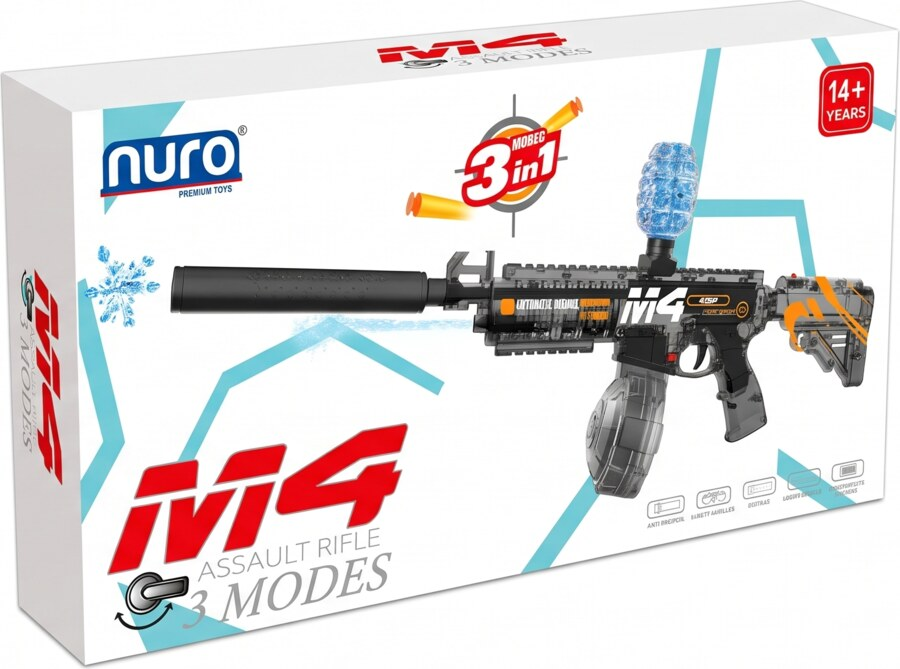
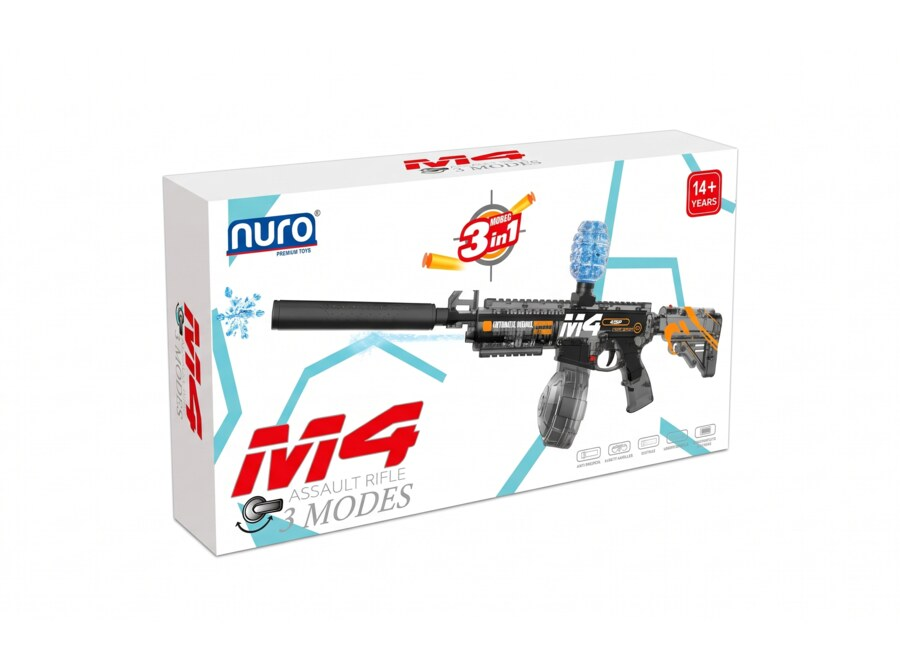
Pull the Gel Storm box shot back and close the cut-out gaps
The box now sits smaller in the frame with air around it, same printed box
art. The cut-out no longer keeps the white background inside the front sight
aperture and the trigger guard, with the light fringe around both feathered
out so the blaster sits cleanly on the dark stage.

diff --git a/products/gel-storm.html b/products/gel-storm.html
@@ -86,7 +86,7 @@
           <div class="char-media char-media--copy">
             <button class="char-media__card" type="button" data-media-open aria-haspopup="dialog" aria-controls="media-viewer" aria-label="Open the Gel Storm gallery, four items">
               <span class="char-media__thumb">
-                <img src="/assets/images/redpoly/products/gel-storm-thumb.webp?v=gel-20261120" alt="" width="480" height="219" loading="lazy" />
+                <img src="/assets/images/redpoly/products/gel-storm-thumb.webp?v=gel-20261121" alt="" width="480" height="218" loading="lazy" />
                 <span class="char-media__play" aria-hidden="true">&#9654;</span>
               </span>
               <span class="char-media__label">GALLERY &middot; 4</span>
@@ -113,11 +113,11 @@
         <span class="char-spark char-spark--three" aria-hidden="true"></span>
         <span class="char-spark char-spark--four" aria-hidden="true"></span>
         <span class="char-spark char-spark--five" aria-hidden="true"></span>
-        <img class="char-stage__figure" src="/assets/images/redpoly/products/gel-storm.webp?v=gel-20261120" alt="Gel Storm, a black M4 style gel blaster with a long suppressor barrel, a translucent blue bead hopper on top, a grey drum magazine and an orange and blue stock." width="1100" height="502" fetchpriority="high" />
+        <img class="char-stage__figure" src="/assets/images/redpoly/products/gel-storm.webp?v=gel-20261121" alt="Gel Storm, a black M4 style gel blaster with a long suppressor barrel, a translucent blue bead hopper on top, a grey drum magazine and an orange and blue stock." width="1100" height="500" fetchpriority="high" />
         <div class="char-media char-media--stage">
           <button class="char-media__card" type="button" data-media-open aria-haspopup="dialog" aria-controls="media-viewer" aria-label="Open the Gel Storm gallery, four items">
             <span class="char-media__thumb">
-              <img src="/assets/images/redpoly/products/gel-storm-thumb.webp?v=gel-20261120" alt="" width="480" height="219" loading="lazy" />
+              <img src="/assets/images/redpoly/products/gel-storm-thumb.webp?v=gel-20261121" alt="" width="480" height="218" loading="lazy" />
               <span class="char-media__play" aria-hidden="true">&#9654;</span>
             </span>
             <span class="char-media__label">GALLERY &middot; 4</span>
@@ -146,7 +146,7 @@
 
     <section class="char-box" aria-labelledby="char-box-title">
       <div class="char-box__inner">
-        <a class="char-box__photo" href="/assets/images/redpoly/products/gel-storm-box.jpg?v=gel-20261120" target="_blank" rel="noopener" aria-label="Open the box photo at full size"><img src="/assets/images/redpoly/products/gel-storm-box.jpg?v=gel-20261120" alt="The Gel Storm box, white with the blaster printed across the front, the NURO logo, 3 in 1 modes, assault rifle and a red 14 plus years badge." width="900" height="669" loading="lazy" /></a>
+        <a class="char-box__photo" href="/assets/images/redpoly/products/gel-storm-box.jpg?v=gel-20261121" target="_blank" rel="noopener" aria-label="Open the box photo at full size"><img src="/assets/images/redpoly/products/gel-storm-box.jpg?v=gel-20261121" alt="The Gel Storm box, white with the blaster printed across the front, the NURO logo, 3 in 1 modes, assault rifle and a red 14 plus years badge." width="900" height="669" loading="lazy" /></a>
         <div class="char-box__copy">
           <p class="char-overline">HOW IT ARRIVES</p>
           <h2 id="char-box-title">GIFT READY,<br /><span>IN A PRINTED BOX.</span></h2>
@@ -165,7 +165,7 @@
       <div class="char-file__card">
         <div class="char-file__portrait">
           <span class="char-file__no">14+<small>YEARS</small></span>
-          <img src="/assets/images/redpoly/products/gel-storm-thumb.webp?v=gel-20261120" alt="" width="480" height="219" loading="lazy" />
+          <img src="/assets/images/redpoly/products/gel-storm-thumb.webp?v=gel-20261121" alt="" width="480" height="218" loading="lazy" />
           <span class="char-file__stamp" aria-hidden="true">3-IN-1<br />MODES</span>
         </div>
         <div class="char-file__body">
@@ -244,8 +244,8 @@
       <ul id="media-viewer-slides" hidden>
         <li data-type="image" data-src="/assets/images/redpoly/products/gel-storm-scene-1.jpg?v=gel-scene-20261120" data-alt="Gel Storm resting on wet concrete at dusk with blue gel beads scattered around it" data-caption="WET CONCRETE &middot; DUSK"></li>
         <li data-type="image" data-src="/assets/images/redpoly/products/gel-storm-scene-2.jpg?v=gel-scene-20261120" data-alt="Gel Storm mid burst, water spray leaving the muzzle and gel beads caught in the air" data-caption="MID BURST &middot; SPRAY"></li>
-        <li data-type="image" data-src="/assets/images/redpoly/products/gel-storm-box.jpg?v=gel-20261120" data-alt="The Gel Storm retail box, printed with the blaster and its 3 in 1 modes" data-caption="THE BOX &middot; AGES 14+"></li>
-        <li data-type="image" data-src="/assets/images/redpoly/products/gel-storm.webp?v=gel-20261120" data-alt="Gel Storm cut out, a black M4 style gel blaster with a blue bead hopper and a drum magazine" data-caption="OUT OF THE BOX &middot; &#8377;1,999"></li>
+        <li data-type="image" data-src="/assets/images/redpoly/products/gel-storm-box.jpg?v=gel-20261121" data-alt="The Gel Storm retail box, printed with the blaster and its 3 in 1 modes" data-caption="THE BOX &middot; AGES 14+"></li>
+        <li data-type="image" data-src="/assets/images/redpoly/products/gel-storm.webp?v=gel-20261121" data-alt="Gel Storm cut out, a black M4 style gel blaster with a blue bead hopper and a drum magazine" data-caption="OUT OF THE BOX &middot; &#8377;1,999"></li>
       </ul>
     </div>
   </main>

diff --git a/main.js b/main.js
@@ -73,7 +73,7 @@
     'BUBBLE GUN': { price:499, href:'/bubble-gun', image:'/assets/images/redpoly/products/bubble-gun-thumb.webp?v=bubble-20261121' },
     'STUNT PET': { price:599, href:'/stunt-pet', image:'/assets/images/redpoly/products/stunt-pet-thumb.webp?v=pet-20261122' },
     'MINI COOL CAR': { price:749, href:'/mini-cool-car', image:'/assets/images/redpoly/products/mini-cool-car-thumb.webp?v=car-20261117' },
-    'GEL STORM': { price:1999, href:'/gel-storm', image:'/assets/images/redpoly/products/gel-storm-thumb.webp?v=gel-20261120' },
+    'GEL STORM': { price:1999, href:'/gel-storm', image:'/assets/images/redpoly/products/gel-storm-thumb.webp?v=gel-20261121' },
     // Cute Dinos sells as one dino in any of three colours (₹249) or the set of all three (₹549).
     'CUTE DINOS GREEN': { price:249, href:'/cute-dinos?colour=green', image:'/assets/images/redpoly/products/cute-dinos-green-thumb.webp?v=dinos-20261116' },
     'CUTE DINOS RED': { price:249, href:'/cute-dinos?colour=red', image:'/assets/images/redpoly/products/cute-dinos-red-thumb.webp?v=dinos-20261116' },

diff --git a/checkout.js b/checkout.js
@@ -11,7 +11,7 @@
     'BUBBLE GUN': { price:499, image:'/assets/images/redpoly/products/bubble-gun-thumb.webp?v=bubble-20261121' },
     'STUNT PET': { price:599, image:'/assets/images/redpoly/products/stunt-pet-thumb.webp?v=pet-20261122' },
     'MINI COOL CAR': { price:749, image:'/assets/images/redpoly/products/mini-cool-car-thumb.webp?v=car-20261117' },
-    'GEL STORM': { price:1999, image:'/assets/images/redpoly/products/gel-storm-thumb.webp?v=gel-20261120' },
+    'GEL STORM': { price:1999, image:'/assets/images/redpoly/products/gel-storm-thumb.webp?v=gel-20261121' },
     'CUTE DINOS GREEN': { price:249, image:'/assets/images/redpoly/products/cute-dinos-green-thumb.webp?v=dinos-20261116' },
     'CUTE DINOS RED': { price:249, image:'/assets/images/redpoly/products/cute-dinos-red-thumb.webp?v=dinos-20261116' },
     'CUTE DINOS TEAL': { price:249, image:'/assets/images/redpoly/products/cute-dinos-teal-thumb.webp?v=dinos-20261116' },

diff --git a/index.html b/index.html
@@ -187,7 +187,7 @@
         <article class="shop-card">
           <a class="shop-card__media" href="/gel-storm" style="--card-tint:#dfe7ef" aria-label="Open the Gel Storm page">
             <span class="shop-card__tag">JUST LANDED</span>
-            <img src="/assets/images/redpoly/products/gel-storm.webp?v=gel-20261120" alt="Gel Storm, a black M4 style gel blaster with a thin orange line running down the body." width="1100" height="502" loading="lazy" />
+            <img src="/assets/images/redpoly/products/gel-storm.webp?v=gel-20261121" alt="Gel Storm, a black M4 style gel blaster with a thin orange line running down the body." width="1100" height="500" loading="lazy" />
           </a>
           <div class="shop-card__body">
             <h3 class="shop-card__name">GEL STORM</h3>
